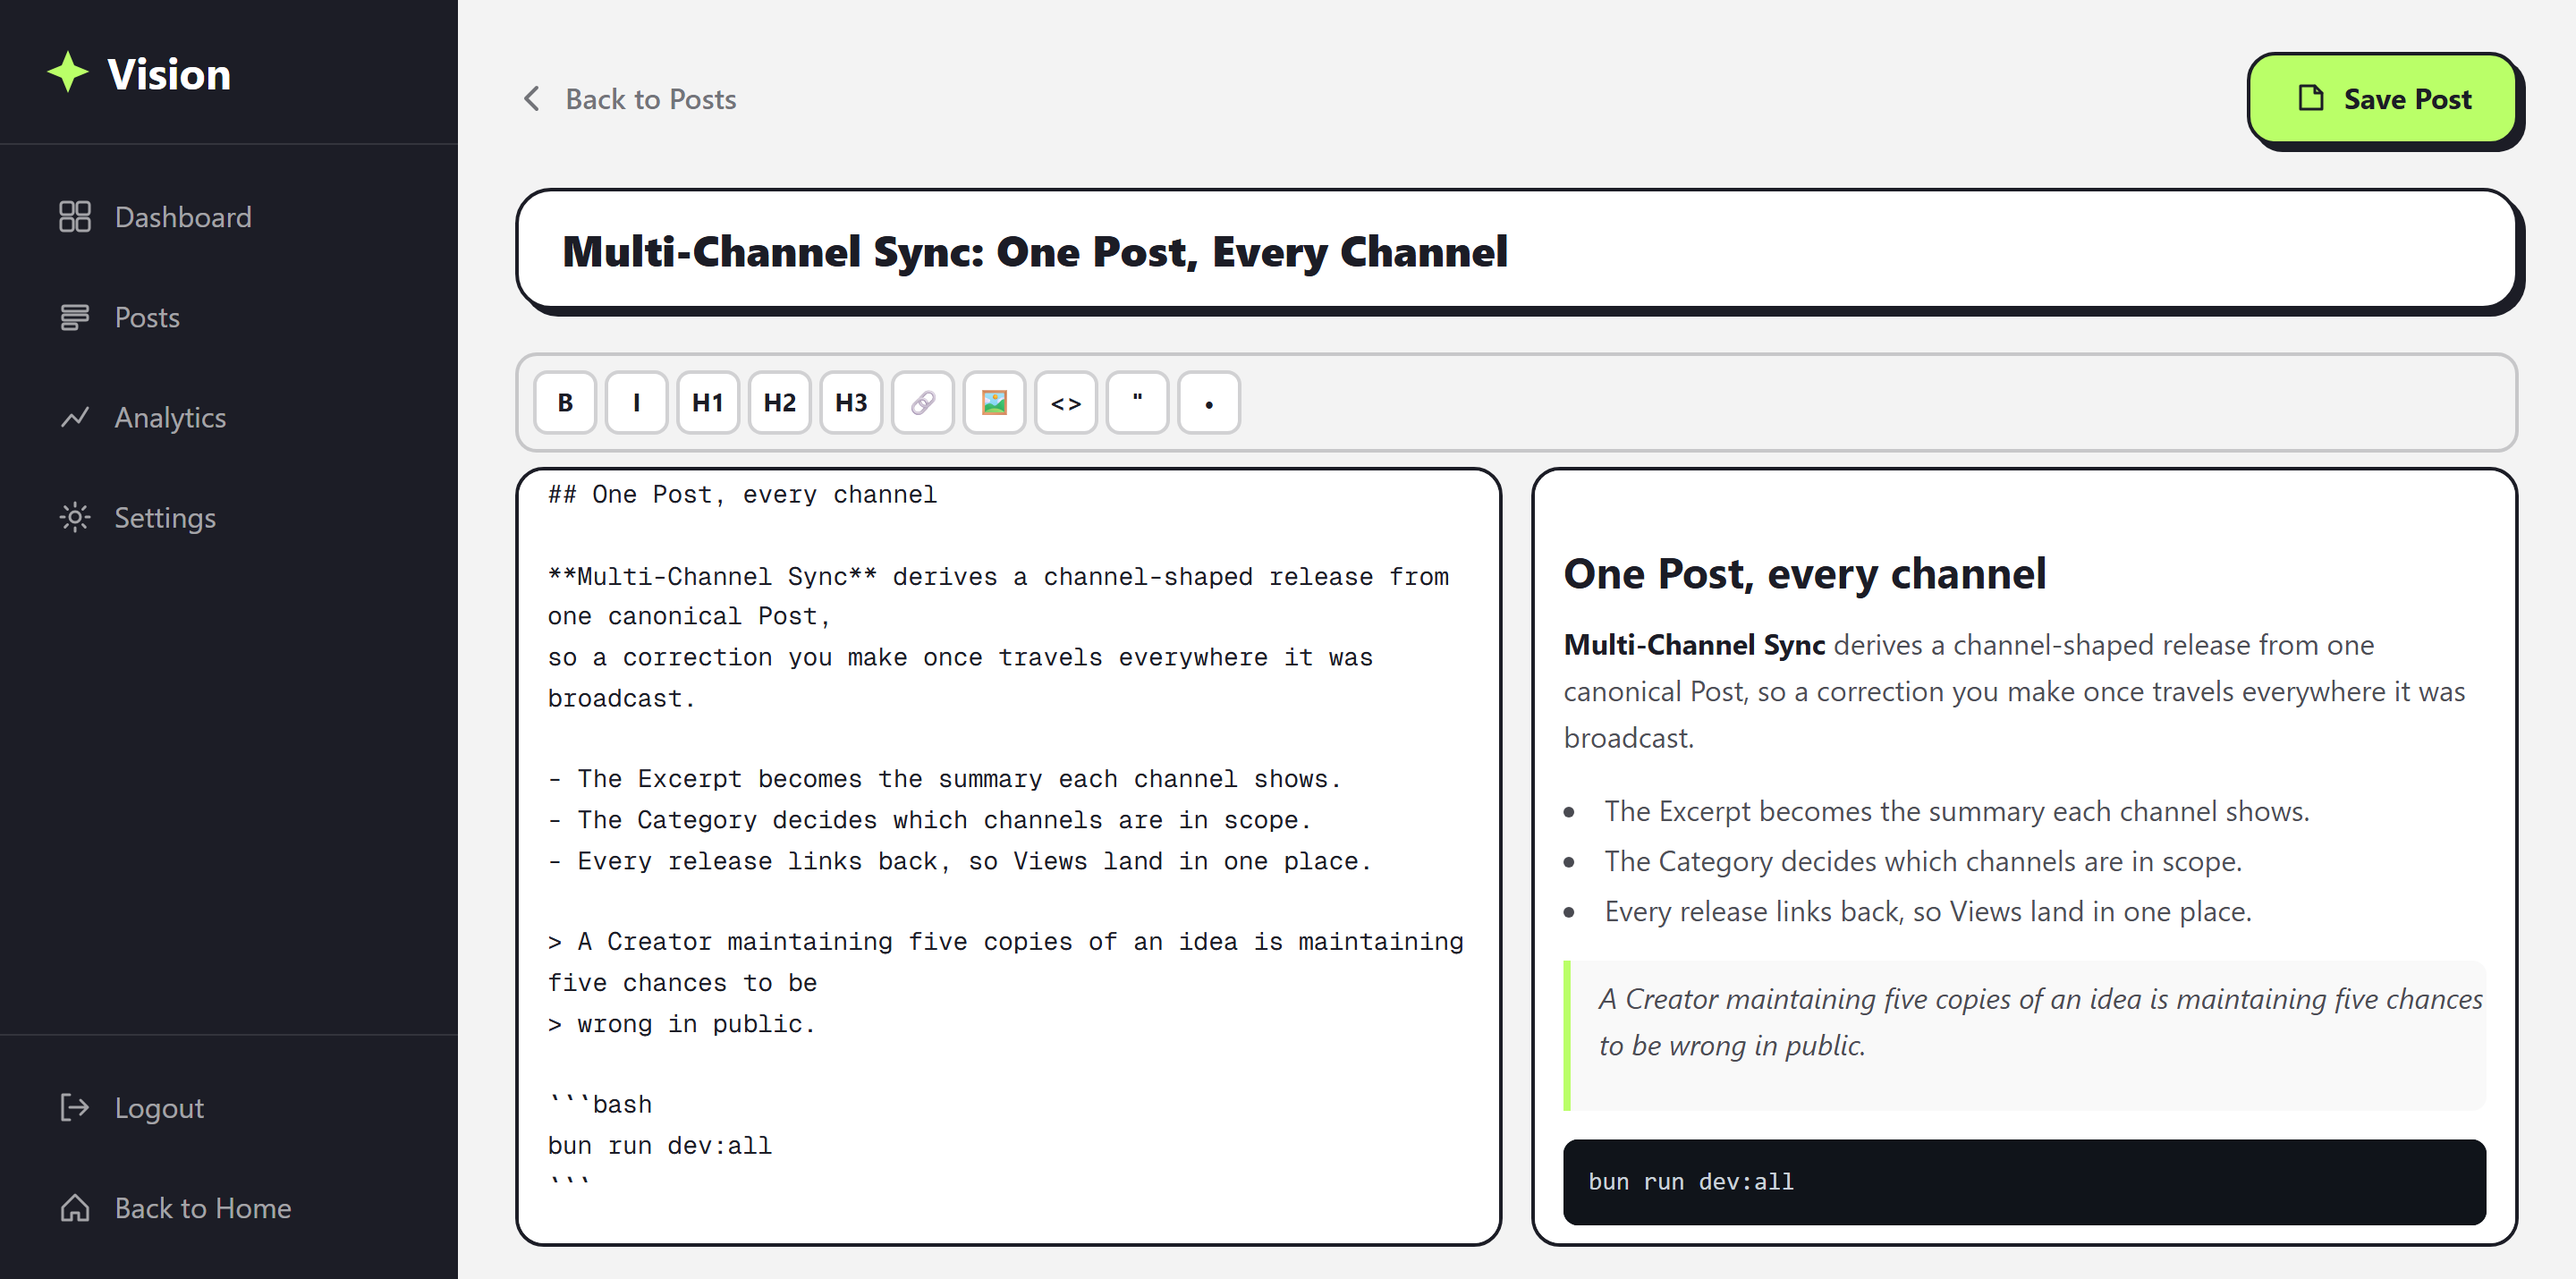
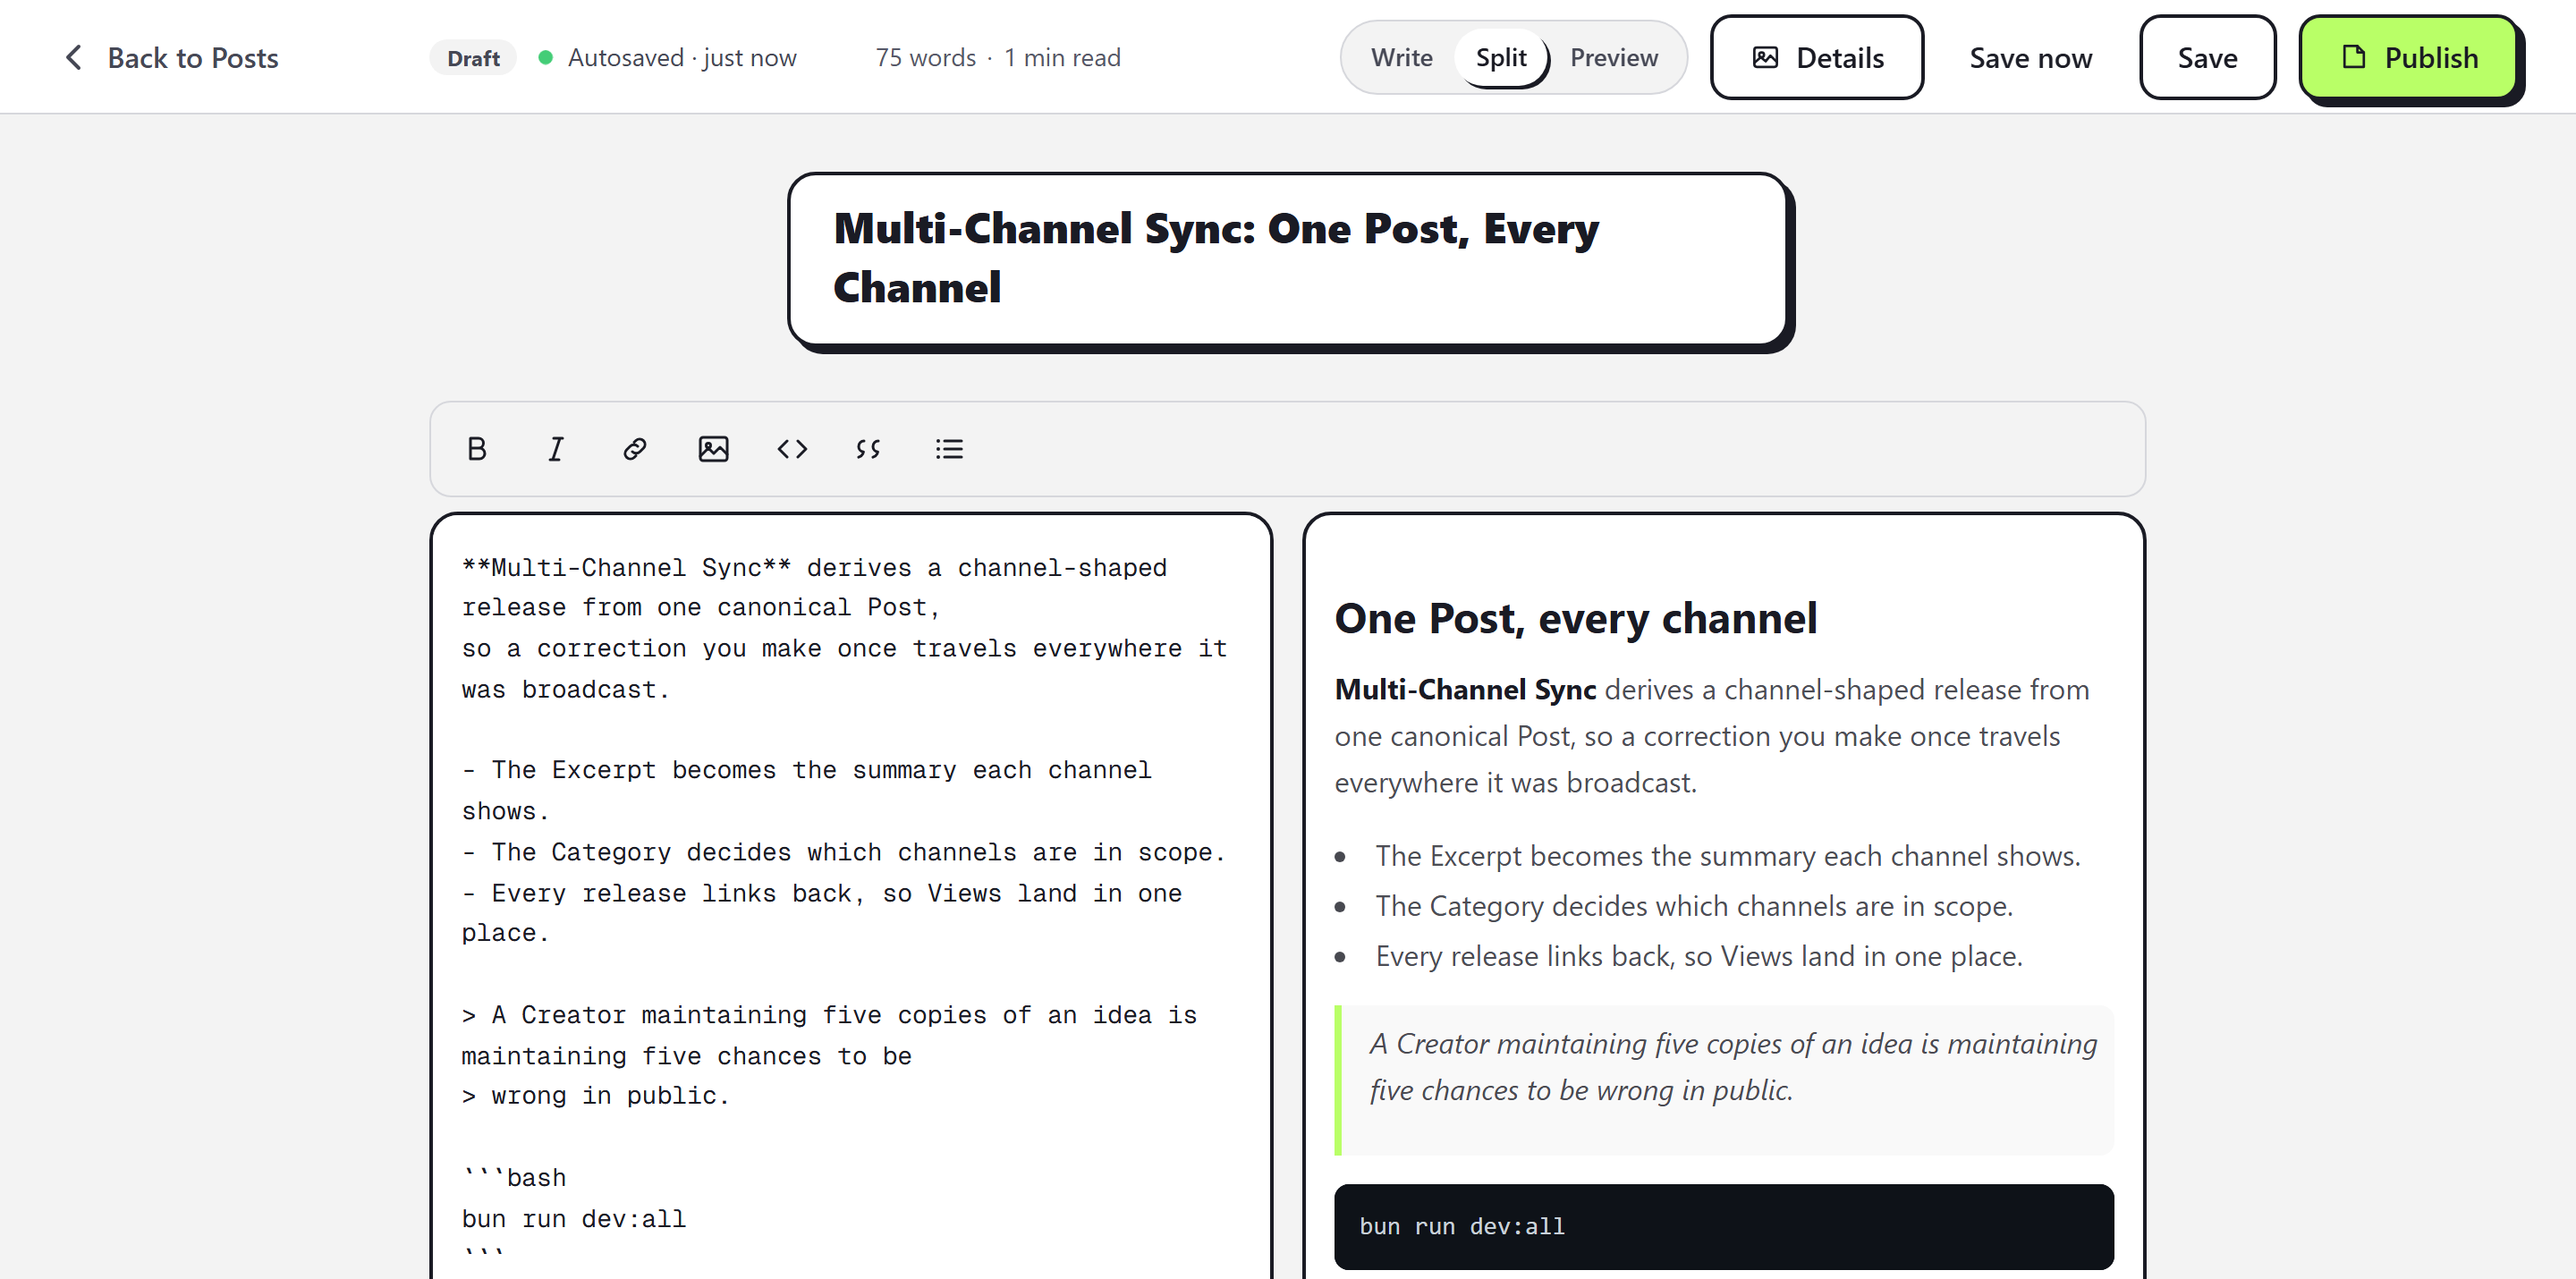
fix(dashboard): repair the README screenshot run and the mode switch thumb
The README shot for the editor drove the Category and Status selects and waited
on three class names, all of which this branch removed — so `bun run screenshots`
had been failing since the first slice. It drives the redesigned screen now, and
the entrance it waits on is exposed as an attribute rather than a class, because
the animation runs from a ref and left nothing for a test to wait on.

The mode switch sized its thumb as an equal share of the track, which is only
right if every label is the same length. Write, Split and Preview are not, so the
thumb sat across two words at once. It measures the button it belongs to now, and
re-measures once fonts have landed.

The committed editor screenshot is regenerated deliberately: the UI it documents
has actually changed. The other three came out byte-identical.

diff --git a/components/dashboard/editor/EditorModeSwitchSlot.tsx b/components/dashboard/editor/EditorModeSwitchSlot.tsx
@@ -1,5 +1,6 @@
 "use client";
 
+import { useLayoutEffect, useRef, useState } from "react";
 import { usePrefersReducedMotion } from "@/hooks/usePrefersReducedMotion";
 import type { EditorMode } from "./types";
 
@@ -33,27 +34,44 @@ export default function EditorModeSwitchSlot({
   const options = splitAvailable ? OPTIONS : OPTIONS.filter((o) => o.id !== "split");
   const activeIndex = options.findIndex((o) => o.id === mode);
 
+  // The labels are different lengths, so an equal-share thumb sits under the
+  // wrong words — it has to be measured from the button it belongs to.
+  const buttonRefs = useRef<(HTMLButtonElement | null)[]>([]);
+  const [thumb, setThumb] = useState<{ left: number; width: number } | null>(null);
+
+  useLayoutEffect(() => {
+    const measure = () => {
+      const el = buttonRefs.current[activeIndex];
+      if (el) setThumb({ left: el.offsetLeft, width: el.offsetWidth });
+    };
+    measure();
+    // Fonts land after first paint and change every label's width with them.
+    document.fonts?.ready.then(measure).catch(() => {});
+    window.addEventListener("resize", measure);
+    return () => window.removeEventListener("resize", measure);
+  }, [activeIndex, options.length]);
+
   return (
     <div
       role="radiogroup"
       aria-label="Editor view"
       className={`relative inline-flex shrink-0 items-center rounded-pill border border-border bg-surface-muted p-1 text-sm font-medium ${className}`}
     >
-      {/* The thumb — position driven purely by index, so hiding/showing the
-          Split option never resizes it, only moves where it lands. */}
-      <div
-        aria-hidden="true"
-        className={`absolute inset-y-1 rounded-pill bg-surface shadow-hard-sm transition-transform ${
-          prefersReducedMotion ? "duration-[0ms]" : ""
-        }`}
-        style={{
-          width: `calc((100% - 0.5rem) / ${options.length})`,
-          transform: `translateX(calc(${activeIndex} * 100%))`,
-        }}
-      />
+      {thumb && (
+        <div
+          aria-hidden="true"
+          className={`absolute inset-y-1 rounded-pill bg-surface shadow-hard-sm transition-[transform,width] ${
+            prefersReducedMotion ? "duration-[0ms]" : ""
+          }`}
+          style={{ width: thumb.width, transform: `translateX(${thumb.left}px)`, left: 0 }}
+        />
+      )}
       {options.map((option) => (
         <button
           key={option.id}
+          ref={(el) => {
+            buttonRefs.current[options.indexOf(option)] = el;
+          }}
           type="button"
           role="radio"
           aria-checked={mode === option.id}

diff --git a/e2e/readme-shots.spec.ts b/e2e/readme-shots.spec.ts
@@ -166,23 +166,20 @@ test.describe('signed in as a Creator', () => {
   });
 
   test('editor', async ({ page }) => {
-    // Framed to end just below the split pane: the Post Settings form beneath it
-    // carries Thai placeholder copy that reads as an accident in an English README.
     await page.setViewportSize({ width: 1440, height: 715 });
     await page.goto('/dashboard/posts/new');
     await page.getByPlaceholder('Enter post title...').fill(DEMO_EDITOR_TITLE);
     await page
       .getByPlaceholder('Write your post content in Markdown...')
       .fill(DEMO_EDITOR_CONTENT);
-    await page.getByLabel('Category').selectOption('Social Media');
-    await page.getByLabel('Status').selectOption('Draft');
+    // Write is the default mode now, so the preview has to be asked for — the
+    // README shot is of the split view, which is the thing worth showing.
+    await page.getByRole('radio', { name: 'Split' }).click();
     // The right pane shows a placeholder until content is typed; wait for the
     // rendered heading so the shot is of a live preview, not an empty panel.
     await expect(page.getByRole('heading', { name: 'One Post, every channel' })).toBeVisible();
-    await settleAnimations(page, ['.editor-header', '.editor-content', '.metadata-form']);
-    // Clipped rather than fullPage: below the split pane sits the Post Settings
-    // form, which a fullPage shot cuts through mid-field.
-    // Deliberately never clicks Save Post — saving navigates to /dashboard/posts.
+    await settleAnimations(page, ['[data-editor-surface]']);
+    // Deliberately never saves — saving navigates to /dashboard/posts.
     await shoot(page, 'editor');
   });
 });

diff --git a/components/dashboard/editor/PostEditorForm.tsx b/components/dashboard/editor/PostEditorForm.tsx
@@ -568,6 +568,10 @@ export default function PostEditorForm({
       <div className="pt-[60px] md:pt-16">
         <div
           ref={contentRef}
+          // The entrance animates this element's opacity from a ref, so there
+          // is no class a screenshot run can wait on. This attribute is that
+          // hook — see e2e/readme-shots.spec.ts.
+          data-editor-surface
           className="mx-auto flex min-h-[calc(100vh-60px)] max-w-5xl flex-col p-8 opacity-0 md:min-h-[calc(100vh-4rem)]"
         >
           {!canEdit && (
